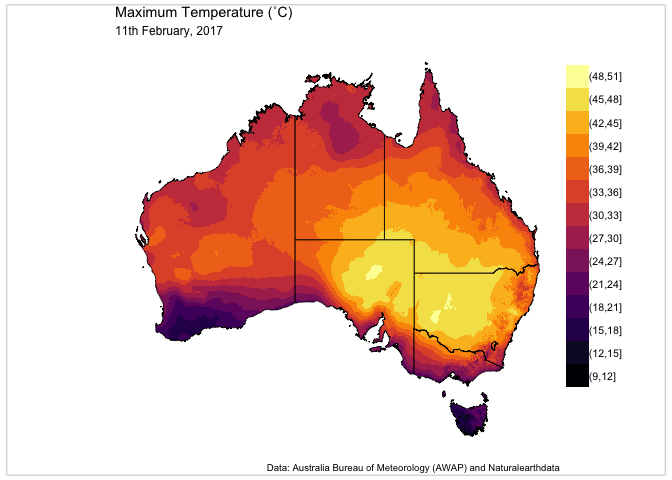
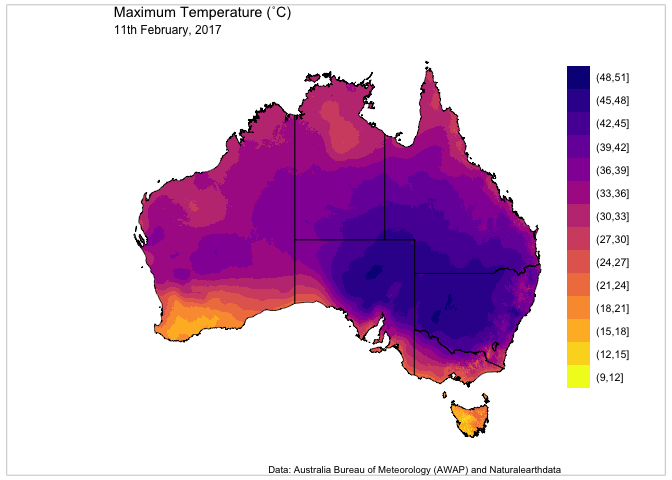
Update map and use pacman for package management

diff --git a/README.md b/README.md
@@ -1,5 +1,15 @@
 
-# Using `viridis'` “inferno” colour scheme to map Australian temperatures on Feb. 11, 2017
+# Notes on Jul. 20, 2020
+
+As I’ve done some reading and been revisiting this idea, I realised that
+I had probably mapped the colours backwards. I should have been using
+darker colours for the higher temperatures. When I tried this using the
+‘inferno’ palette there was little or no discernible colour separation
+at the highest temperatures and these details were lost in the map.
+Switching to ‘plasma’ made these details much more clear and the map now
+displays the hottest temperatures as the darkest part of the map.
+
+# Using the viridis ~~“inferno”~~ “plasma” colour pallete to map Australian temperatures on Feb. 11, 2017
 
 This is a fork of [njtierney’s](https://github.com/njtierney/)
 [ozviridis](https://github.com/njtierney/ozviridis) project. I’m
@@ -20,63 +30,60 @@ Verymuchso.
 
 Almost as ugly as the temperatures outside.
 
-Nicholas wanted to see if he could use the `viridis` package to improve
-this map. I completely agree. This should be doable.
+Nicholas wanted to see if he could use the viridis package to improve
+this map. I completely agree; this should be doable.
 
 ## Setup
 
 To do this you’ll need a few packages from CRAN:
 
 ``` r
-library(raster)
+if(!require(pacman)) {
+  install.packages("pacman")
+}
 ```
 
-    ## Loading required package: sp
+    ## Loading required package: pacman
 
 ``` r
-library(ggplot2)
-library(viridis)
-```
-
-    ## Loading required package: viridisLite
-
-``` r
-library(ggthemes)
-library(grid)
-library(gridExtra)
-```
-
-One from ROpenSciLabs,
-[rnaturalearth](https://github.com/ropenscilabs/rnaturalearth):
-
-``` r
-#if (!require("devtools")) install.packages("devtools")
-#devtools::install_github("ropenscilabs/rnaturalearth")
-library("rnaturalearth")
+pacman::p_load("raster",
+               "ggplot2",
+               "ggthemes",
+               "viridis",
+               "grid",
+               "gridExtra",
+               "rnaturalearth"
+)
 ```
 
 And one from SWISH,
 [awaptools](https://github.com/swish-climate-impact-assessment/awaptools):
 
 ``` r
-#devtools::install_github("swish-climate-impact-assessment/awaptools")
-library(awaptools)
+pacman::p_load_gh("swish-climate-impact-assessment/awaptools")
 ```
 
 ## Get the data to recreate our map
 
 ### BoM AWAP grids
 
-Using `awaptools` get the mean maximum for February 11 2017.
+Using awaptools get the mean maximum for February 11 2017.
 
 ``` r
-awaptools::get_awap_data(start = "2017-02-11", end = "2017-02-11", measure_i = "maxave")
+get_awap_data(start = "2017-02-11",
+              end = "2017-02-11",
+              measure_i = "maxave")
+```
 
-oz_heat <- raster::raster("maxave_2017021120170211.grid")
+    ## [1] "Non linux or windows os detected. Assume linux-alike."
+    ## [1] "maxave_2017021120170211.grid.Z"
+
+``` r
+oz_heat <- raster("maxave_2017021120170211.grid")
 ```
 
 ``` r
-raster::plot(oz_heat, col = heat.colors(n = length(unique(oz_heat))))
+plot(oz_heat, col = heat.colors(n = length(unique(oz_heat))))
 ```
 
 ![](README_files/figure-gfm/plot_bom_grid-1.png)<!-- -->
@@ -86,38 +93,37 @@ We’ll get to that.
 
 ### Adding a shapefile of Australia
 
-Now that the temperature data is in R, use the `rnaturalearthdata`
-package to get an outline of Australia. We’ll use this to map so we can
-see the states, but also to clean up the map a bit, see that previous
-figure? You can sorta pick Australia out, but it’s not clearly defined.
-We can use this to fix that.
+Now that the temperature data is in R, use the rnaturalearth package to
+get an outline of Australia. We’ll use this to map so we can see the
+states, but also to clean up the map a bit, see that previous figure?
+You can sorta pick Australia out, but it’s not clearly defined. We can
+use this to fix that.
 
 ``` r
-oz_shape <- rnaturalearth::ne_states(geounit = "australia")
+oz_shape <- ne_states(geounit = "australia", returnclass = "sp")
 
-sp::plot(oz_shape)
+plot(oz_shape)
 ```
 
 ![](README_files/figure-gfm/australia-1.png)<!-- -->
 
 ### Clean up the heat map
 
-Using the [Naturalearthdata](http://www.naturalearthdata.com) object,
-now mask out only landmasses and trim down the outline, removing islands
-that stretch the map and aren’t of interest. Note that we mask using the
-naturalearth object and crop using the heat map.
+Using raster package functions with the
+[Naturalearthdata](http://www.naturalearthdata.com) object, now mask out
+only landmasses and trim down the outline, removing islands that stretch
+the map and aren’t of interest. Note that we mask using the naturalearth
+object and crop using the heat map.
 
 ``` r
-oz_heat <- raster::mask(oz_heat, oz_shape)
-oz_shape <- raster::crop(oz_shape, oz_heat)
+oz_heat <- mask(oz_heat, oz_shape)
+oz_shape <- crop(oz_shape, oz_heat)
 ```
 
-    ## Loading required namespace: rgeos
+# Plot using ggplot2 and viridis
 
-# Plot using `ggplot2` and `viridis`
-
-Now we’re ready to plot this up using `ggplot2`, but first, we need to
-make the raster object into a format that `ggplot2` can use.
+Now we’re ready to plot this up using ggplot2, but first, we need to
+make the raster object into a format that ggplot2 can use.
 
 ``` r
 # Extract the data into a data.frame for ggplot2
@@ -129,15 +135,17 @@ colnames(oz_heat_df) <- c("Longitude", "Latitude", "Temperature")
 
 ## Classify the heat map
 
-BoM shows the map in 3˚C increments. We can reclassify the raster so
+BoM shows the map in 3 ˚C increments. We can reclassify the raster so
 that it will display in the same way.
 
-Using the `cut` function, we’ll set up our map in the same way.
+Using the `cut()` function, we’ll set up our map in the same way.
 
 ``` r
-oz_heat_df$cuts <- as.factor(cut(oz_heat_df$Temperature,
-                           include.lowest = TRUE,
-                           breaks = seq(-6, 54, by = 3)))
+oz_heat_df$cuts <- as.factor(cut(
+  oz_heat_df$Temperature,
+  include.lowest = TRUE,
+  breaks = seq(-6, 54, by = 3)
+))
 ```
 
 ## The final product
@@ -149,42 +157,58 @@ described in the tidyverse here,
 <https://github.com/tidyverse/ggplot2/wiki/plotting-polygon-shapefiles>:
 
 ``` r
-oz <- ggplot2::ggplot(data = na.omit(oz_heat_df), 
-                      aes(y = Latitude, x = Longitude)) +
-  ggplot2::geom_raster(aes(fill = cuts)) +
-  viridis::scale_fill_viridis(option = "inferno", discrete = TRUE) +
-  ggplot2::guides(fill = guide_legend(reverse = TRUE)) +
-  ggplot2::geom_polygon(data = oz_shape, 
-                        aes(x = long, y = lat, group = group),
-                        fill = NA, color = "black", size = 0.25) +
-  ggthemes::theme_map() +
-  ggplot2::theme(legend.position = c(1, 0.15),
-                 legend.text = element_text(size = 8),
-                 legend.title = element_blank()) +
-  ggplot2::labs(title = "Maximum Temperature (˚C)", 
-                subtitle = "11th February, 2017", 
-                caption = "Data: Australia Bureau of Meteorology (AWAP) and Naturalearthdata") +
-  ggplot2::coord_quickmap()
+oz <- ggplot(data = na.omit(oz_heat_df),
+             aes(y = Latitude, x = Longitude)) +
+  geom_raster(aes(fill = cuts)) +
+  scale_fill_viridis(option = "plasma",
+                     discrete = TRUE,
+                     direction = -1) +
+  guides(fill = guide_legend(reverse = TRUE)) +
+  geom_polygon(
+    data = oz_shape,
+    aes(x = long, y = lat, group = group),
+    fill = NA,
+    color = "black",
+    size = 0.25
+  ) +
+  theme_map() +
+  theme(
+    legend.position = c(1, 0.15),
+    legend.text = element_text(size = 8),
+    legend.title = element_blank()
+  ) +
+  labs(title = "Maximum Temperature (˚C)",
+       subtitle = "11th February, 2017",
+       caption = "Data: Australia Bureau of Meteorology (AWAP) and Naturalearthdata") +
+  coord_quickmap()
 ```
 
     ## Regions defined for each Polygons
 
 ``` r
 # Using the gridExtra and grid packages add a neatline to the map
-gridExtra::grid.arrange(oz, ncol = 1)
-grid::grid.rect(width = 0.98, 
-                height = 0.98, 
-                gp = grid::gpar(lwd = 0.25, 
-                                col = "black",
-                                fill = NA))
+grid.arrange(oz, ncol = 1)
+```
+
+    ## Warning: Raster pixels are placed at uneven vertical intervals and will be
+    ## shifted. Consider using geom_tile() instead.
+
+``` r
+grid.rect(
+  width = 0.98,
+  height = 0.98,
+  gp = gpar(lwd = 0.25,
+            col = "black",
+            fill = NA)
+)
 ```
 
 ![](README_files/figure-gfm/plot-1.png)<!-- -->
 
 That’s much better and pretty close to what BoM originally created.
-Using any of the `ggplot` `panel.background` or `panel.grid` result in
-the legend being outside the line, so not really a neatline for a map.
-Using the `gridExtra` and `grid` packages fixes this.
+Using any of the ggplot `panel.background` or `panel.grid` result in the
+legend being outside the line, so not really a neatline for a map. Using
+the gridExtra and grid packages fixes this.
 
 ## Cleanup on the way out
 
@@ -202,13 +226,13 @@ abide by its terms.
 
 # Appendix
 
-    ## R version 3.5.3 (2019-03-11)
-    ## Platform: x86_64-apple-darwin15.6.0 (64-bit)
-    ## Running under: macOS Mojave 10.14.4
+    ## R version 4.0.2 (2020-06-22)
+    ## Platform: x86_64-apple-darwin17.0 (64-bit)
+    ## Running under: macOS Catalina 10.15.6
     ## 
     ## Matrix products: default
-    ## BLAS: /Library/Frameworks/R.framework/Versions/3.5/Resources/lib/libRblas.0.dylib
-    ## LAPACK: /Library/Frameworks/R.framework/Versions/3.5/Resources/lib/libRlapack.dylib
+    ## BLAS:   /Library/Frameworks/R.framework/Versions/4.0/Resources/lib/libRblas.dylib
+    ## LAPACK: /Library/Frameworks/R.framework/Versions/4.0/Resources/lib/libRlapack.dylib
     ## 
     ## locale:
     ## [1] en_AU.UTF-8/en_AU.UTF-8/en_AU.UTF-8/C/en_AU.UTF-8/en_AU.UTF-8
@@ -218,30 +242,25 @@ abide by its terms.
     ## [8] base     
     ## 
     ## other attached packages:
-    ## [1] awaptools_1.2.1     rnaturalearth_0.1.0 gridExtra_2.3      
-    ## [4] ggthemes_4.1.1      viridis_0.5.1       viridisLite_0.3.0  
-    ## [7] ggplot2_3.1.1       raster_2.8-19       sp_1.3-1           
+    ##  [1] awaptools_1.2.1     rnaturalearth_0.1.0 gridExtra_2.3      
+    ##  [4] viridis_0.5.1       viridisLite_0.3.0   ggthemes_4.2.0     
+    ##  [7] ggplot2_3.3.2       raster_3.3-13       sp_1.4-2           
+    ## [10] pacman_0.5.1       
     ## 
     ## loaded via a namespace (and not attached):
-    ##  [1] Rcpp_1.0.1               pillar_1.3.1            
-    ##  [3] compiler_3.5.3           plyr_1.8.4              
-    ##  [5] class_7.3-15             tools_3.5.3             
-    ##  [7] digest_0.6.18            evaluate_0.13           
-    ##  [9] tibble_2.1.1             gtable_0.3.0            
-    ## [11] lattice_0.20-38          pkgconfig_2.0.2         
-    ## [13] rlang_0.3.4              DBI_1.0.0               
-    ## [15] rgdal_1.4-3              yaml_2.2.0              
-    ## [17] xfun_0.6                 e1071_1.7-1             
-    ## [19] withr_2.1.2              stringr_1.4.0           
-    ## [21] dplyr_0.8.0.1            knitr_1.22              
-    ## [23] rgeos_0.4-2              classInt_0.3-1          
-    ## [25] tidyselect_0.2.5         glue_1.3.1              
-    ## [27] sf_0.7-3                 R6_2.4.0                
-    ## [29] rmarkdown_1.12           purrr_0.3.2             
-    ## [31] magrittr_1.5             rnaturalearthhires_0.2.0
-    ## [33] units_0.6-2              scales_1.0.0            
-    ## [35] codetools_0.2-16         htmltools_0.3.6         
-    ## [37] assertthat_0.2.1         colorspace_1.4-1        
-    ## [39] labeling_0.3             stringi_1.4.3           
-    ## [41] lazyeval_0.2.2           munsell_0.5.0           
-    ## [43] crayon_1.3.4
+    ##  [1] Rcpp_1.0.5.1             compiler_4.0.2           pillar_1.4.6            
+    ##  [4] class_7.3-17             tools_4.0.2              digest_0.6.25           
+    ##  [7] evaluate_0.14            lifecycle_0.2.0          tibble_3.0.3            
+    ## [10] gtable_0.3.0             lattice_0.20-41          pkgconfig_2.0.3         
+    ## [13] rlang_0.4.7              DBI_1.1.0                rgdal_1.5-12            
+    ## [16] yaml_2.2.1               parallel_4.0.2           xfun_0.15               
+    ## [19] e1071_1.7-3              withr_2.2.0              stringr_1.4.0           
+    ## [22] dplyr_1.0.0              knitr_1.29               rgeos_0.5-3             
+    ## [25] generics_0.0.2           vctrs_0.3.2              classInt_0.4-3          
+    ## [28] tidyselect_1.1.0         glue_1.4.1               sf_0.9-5                
+    ## [31] R6_2.4.1                 rmarkdown_2.3            farver_2.0.3            
+    ## [34] purrr_0.3.4              magrittr_1.5             rnaturalearthhires_0.2.0
+    ## [37] units_0.6-7              scales_1.1.1             codetools_0.2-16        
+    ## [40] htmltools_0.5.0          ellipsis_0.3.1           colorspace_1.4-2        
+    ## [43] labeling_0.3             KernSmooth_2.23-17       stringi_1.4.6           
+    ## [46] munsell_0.5.0            crayon_1.3.4
